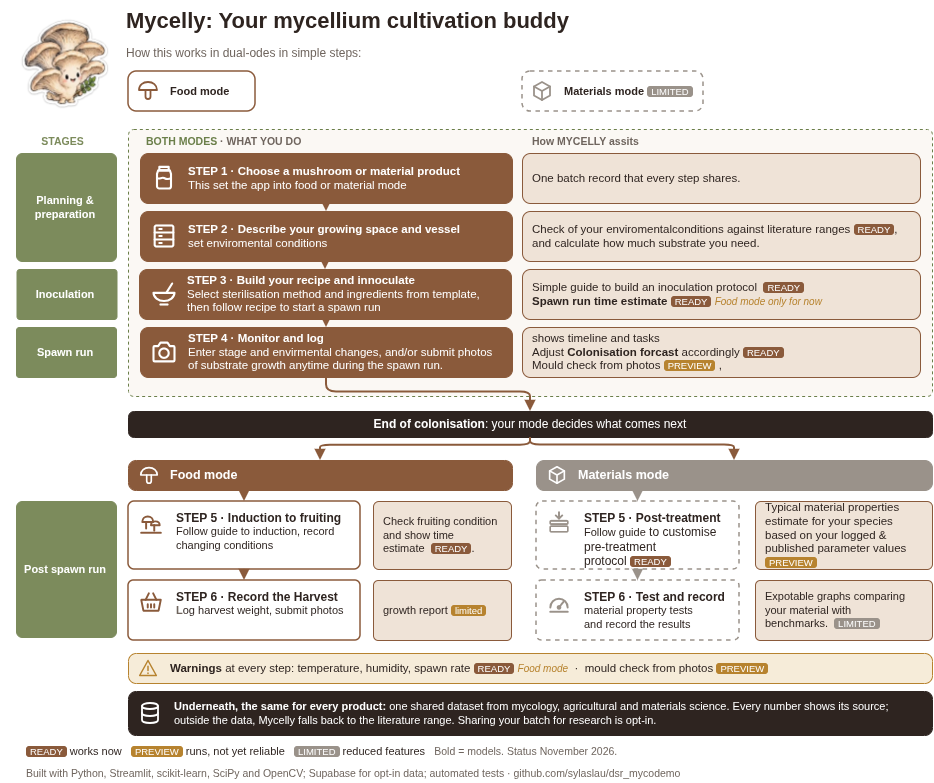
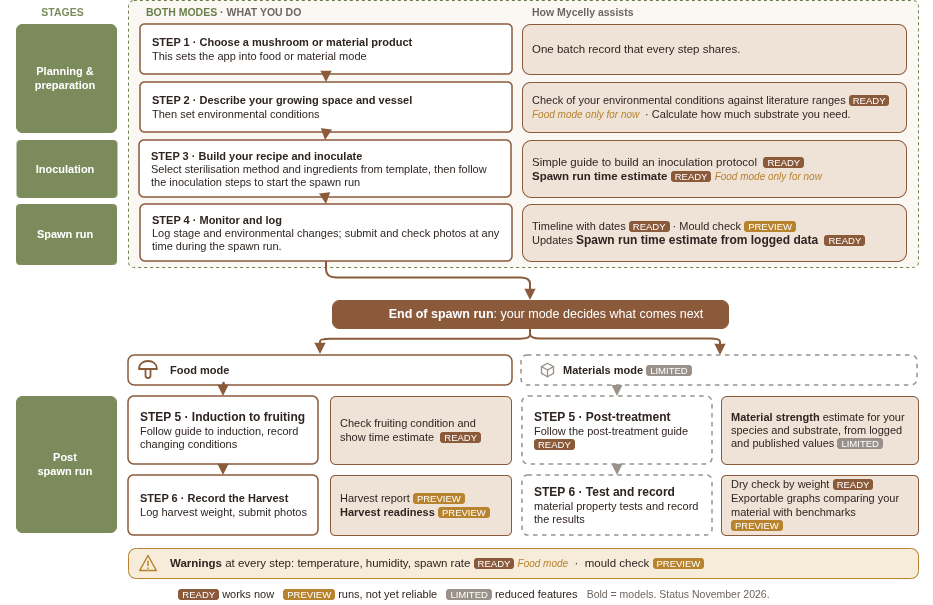
update app pages and third party notice

diff --git a/dsr_mycodemo/app/pages/4_Monitor.py b/dsr_mycodemo/app/pages/4_Monitor.py
@@ -47,8 +47,9 @@ def stage_from_backup(text):
     if not text.lstrip().startswith("{"):
         return {}
     doc, out = json.loads(text), {}
-    if doc.get("batch_stage") in flow.STAGES_FOOD + flow.STAGES_MATERIAL:
-        out["batch_stage"] = doc["batch_stage"]
+    word = flow.OLD_STAGE_WORDS.get(doc.get("batch_stage"), doc.get("batch_stage"))
+    if word in flow.STAGES_FOOD + flow.STAGES_MATERIAL:
+        out["batch_stage"] = word
     if doc.get("next_start"):
         out["next_start"] = date.fromisoformat(str(doc["next_start"])[:10])
     return out
@@ -97,9 +98,9 @@ def apply_restore(p, stage=None):
 CO2_COLONISING = (0.0, 20000.0)
 MATERIALS = flow.is_materials()
 STAGES = flow.STAGES_MATERIAL if MATERIALS else flow.STAGES_FOOD
-FIRST_STAGE = "Colonisation" if MATERIALS else "Colonising"
-# mode -> (stage after colonisation, confirm button)
-NEXT_STAGE = {False: ("Fruiting", "Confirm induction started"),
+FIRST_STAGE = "Spawn run"
+# mode -> (stage after the spawn run, confirm button)
+NEXT_STAGE = {False: ("Fruiting", "Induction done"),
               True: ("Post-treatment", "Confirm post-treatment started")}[MATERIALS]
 
 SHOWN = stage_ui.SHOWN       # shown name; the saved value stays the same (old batches load)
@@ -119,7 +120,8 @@ def residences():
 
 
 def batch_stage():
-    """The stage the grower confirmed (session_state['batch_stage']); colonisation until a confirm button is pressed."""
+    """The stage the grower confirmed (session_state['batch_stage']); Spawn run until a confirm button is pressed."""
+    ss["batch_stage"] = flow.OLD_STAGE_WORDS.get(ss.get("batch_stage"), ss.get("batch_stage"))
     if ss.get("batch_stage") not in STAGES:
         ss["batch_stage"] = FIRST_STAGE
     return ss["batch_stage"]
@@ -129,20 +131,6 @@ def batch_residence():
     """Where the batch is: the next residence once the next stage was confirmed (if one was chosen), else the
     colonisation residence."""
     return next_residence() if ss.get("next_start") and next_residence() else ss.get("env_where")
-
-
-def stage_hint(batch, today=None):
-    """What the dates suggest, as a hint only (the stage never follows the dates)."""
-    today = today or date.today()
-    if MATERIALS:
-        typed, _ = stage_ui.colonised_date(PLAN["batch_label"])
-        return (f"Your record says: fully colonised on {typed:%d %b}." if typed else
-                "No colonisation dates for materials yet: confirm when the blocks are fully colonised.")
-    ev = {name: (a, b) for name, a, b in pipeline.run(batch).dates.value}
-    if pipeline.MARKER_LABEL not in ev:
-        return "No dates for this mushroom: confirm by eye."
-    marker = ev[pipeline.MARKER_LABEL][0]
-    return f"Dates say: ready for induction {'from' if today < marker else 'since'} {marker:%d %b}."
 
 
 def wanted_ranges(batch):
@@ -246,29 +234,27 @@ with st.sidebar:
             st.success(f"Restored from {restore_file.name}.")
 
 # --- main area: one box per residence ----------------------------------------------------
-def stage_controls(batch, stage):
-    """Confirm buttons: colonisation -> next stage (with its date), Food fruiting -> harvested, contaminated any time."""
-    if not ss.get("next_start") and stage != "Contaminated":
+def stage_controls(stage):
+    """One row: the confirm button on the left (Spawn run -> next stage, with its date), Contaminated on the right."""
+    if stage == "Contaminated":
+        return
+    left, right = st.columns([3, 1], vertical_alignment="bottom")
+    if not ss.get("next_start"):
         nxt_stage, label = NEXT_STAGE
-        if next_residence():
-            d_col, b_col = st.columns([1, 2], vertical_alignment="bottom")
-            on = d_col.date_input("Started on", date.today(), key="confirm_date")
-            if b_col.button(label, key="confirm_next", type="primary"):
-                ss["batch_stage"], ss["next_start"] = nxt_stage, on
-                st.rerun()
-        else:
-            if st.button(label, key="confirm_next", type="primary"):
+        with left:
+            if next_residence():
+                d_col, b_col = st.columns([1, 2], vertical_alignment="bottom")
+                on = d_col.date_input("Started on", date.today(), key="confirm_date")
+                if b_col.button(label, key="confirm_next", type="primary"):
+                    ss["batch_stage"], ss["next_start"] = nxt_stage, on
+                    st.rerun()
+            elif st.button(label, key="confirm_next", type="primary"):     # no next residence yet: choose it there
                 ss["show_next_steps"] = True
                 st.switch_page("pages/2_Recipe_and_actions.py")
-            st.caption(f"Choose where the batch goes next in the {stage_ui.next_titles(MATERIALS).lower()} steps on "
-                       "Recipe and actions first.")
-        st.caption(stage_hint(batch))
-    if stage == "Fruiting" and st.button("Mark harvested", key="mark_harvested"):
-        ss["batch_stage"] = "Harvested"
-        st.rerun()
-    if stage != "Contaminated" and st.button("Contaminated", key="mark_contaminated"):
-        ss["batch_stage"] = "Contaminated"
-        st.rerun()
+    with right.container(horizontal_alignment="right"):
+        if st.button("Contaminated", key="mark_contaminated"):
+            ss["batch_stage"] = "Contaminated"
+            st.rerun()
 
 
 def coverage_photo(name, sample):
@@ -298,12 +284,12 @@ def coverage_photo(name, sample):
 
 
 def batch_bubble(batch, name):
-    """The plan batch in its residence: the stage as a row of labels, the confirm buttons, one sample's record."""
+    """The plan batch in its residence: the current stage bubble left of the batch name, the buttons, one sample's
+    record."""
     stage = batch_stage()
     with st.container(border=True):
-        st.markdown(f"**{PLAN['batch_label']}**")
-        st.markdown(stage_ui.stage_labels(STAGES, stage), unsafe_allow_html=True)
-        stage_controls(batch, stage)
+        st.markdown(stage_ui.stage_badge(stage, PLAN["batch_label"]), unsafe_allow_html=True)
+        stage_controls(stage)
         samples = stage_ui.plan_samples(PLAN)
         sample = st.selectbox("Sample (one bag, jar or mould)", samples, key=f"sample_{name}")
         if ss.get("next_start"):                 # fruiting / harvested, or post-treatment

diff --git a/tests/test_monitor_stages.py b/tests/test_monitor_stages.py
@@ -37,18 +37,27 @@ def _box_of_batch(at):
 
 
 def _current(at):
+    """Stage bubbles shown (11-19: only the current one, left of the batch name)."""
     import re
     html_ = " ".join(m.value for m in at.markdown)
-    return re.findall(r"#fff;[^>]*><b>([^<]+)</b>", html_)
+    return re.findall(r"#fff;[^>]*><b>([^<]+)</b></span><b>[^<]+</b>", html_)
 
 
 # --- stage only through the confirm button --------------------------------------------------------
-def test_stage_starts_colonising_and_does_not_follow_the_dates():
+def test_stage_starts_spawn_run_and_does_not_follow_the_dates():
     at = _monitor(plan={**FOOD_PLAN, "inoc_date": START - timedelta(days=200)},
                   residences={"next": "Tent or Cabinet"})       # dates say long past harvest
-    assert at.session_state["batch_stage"] == "Colonising" and _current(at) == ["Colonising"]
+    assert at.session_state["batch_stage"] == "Spawn run" and _current(at) == ["Spawn run"]
     assert "next_start" not in at.session_state
-    assert any("Dates say: ready for induction since" in c.value for c in at.caption)
+    html_ = " ".join(m.value for m in at.markdown)
+    assert "Fruiting" not in html_ and "Harvested" not in html_          # only the current stage is a bubble
+    assert not any("Dates say" in c.value for c in at.caption)           # no grey hint lines
+
+
+def test_old_stage_words_load_as_the_new_ones():
+    assert _current(_monitor(batch_stage="Colonising")) == ["Spawn run"]
+    assert _current(_monitor(residences={"next": "Tent or Cabinet"}, batch_stage="Harvested",
+                             next_start=date(2026, 10, 30))) == ["Fruiting"]
 
 
 def test_confirm_button_sets_stage_date_and_moves_the_bubble():
@@ -56,40 +65,39 @@ def test_confirm_button_sets_stage_date_and_moves_the_bubble():
     assert _subheaders(at)[:2] == ["Monotub or Plastic Container", "Tent or Cabinet"]
     assert _box_of_batch(at) == ["Plastic container"]
     btn = at.button(key="confirm_next")
-    assert btn.label == "Confirm induction started"
+    assert btn.label == "Induction done"
     at.date_input(key="confirm_date").set_value(date(2026, 10, 30))
     btn.click().run()
     s = at.session_state
     assert s["batch_stage"] == "Fruiting" and s["next_start"] == date(2026, 10, 30)
     assert _box_of_batch(at) == ["Tent or Cabinet"] and _current(at) == ["Fruiting"]
-    assert not any(b.key == "confirm_next" for b in at.button)
-    at.button(key="mark_harvested").click().run()
-    assert at.session_state["batch_stage"] == "Harvested"
+    assert not any(b.key in ("confirm_next", "mark_harvested") for b in at.button)
+    assert any(b.key == "mark_contaminated" for b in at.button)
 
 
 def test_without_a_next_residence_the_button_opens_the_steps():
     at = _monitor()
-    assert at.button(key="confirm_next").label == "Confirm induction started"
+    assert at.button(key="confirm_next").label == "Induction done"
     assert not any(d.key == "confirm_date" for d in at.date_input)
-    assert any("Recipe and actions" in c.value for c in at.caption)
+    assert not any("Recipe and actions" in c.value for c in at.caption)
     at.button(key="confirm_next").click().run()
-    assert at.session_state["batch_stage"] == "Colonising" and "next_start" not in at.session_state
+    assert at.session_state["batch_stage"] == "Spawn run" and "next_start" not in at.session_state
     assert at.session_state["show_next_steps"] is True
 
 
 def test_contaminated_at_any_stage():
     at = _monitor()
     at.button(key="mark_contaminated").click().run()
-    assert at.session_state["batch_stage"] == "Contaminated"
+    assert at.session_state["batch_stage"] == "Contaminated" and _current(at) == ["Contaminated"]
     assert not any(b.key in ("mark_contaminated", "confirm_next") for b in at.button)
 
 
 def test_materials_confirm_post_treatment():
     at = _monitor("Materials", MAT_PLAN, residences={"next": "Oven"})
-    html_ = " ".join(m.value for m in at.markdown)
-    assert all(w in html_ for w in ("Colonisation", "Post-treatment", "Contaminated"))
+    assert _current(at) == ["Spawn run"]
     at.button(key="confirm_next").click().run()
     assert at.session_state["batch_stage"] == "Post-treatment" and _box_of_batch(at) == ["Oven"]
+    assert _current(at) == ["Post-treatment"]
     assert not any(b.key == "mark_harvested" for b in at.button)
 
 

diff --git a/dsr_mycodemo/app/stage_ui.py b/dsr_mycodemo/app/stage_ui.py
@@ -479,16 +479,12 @@ def dot(colour):
     return f'<span style="color:{LIGHTS[colour]}">●</span>'
 
 
-def stage_labels(stages, current):
-    """The batch stage as a row of labels; the current one filled in chestnut."""
-    out = []
-    for name in stages:
-        on = name == current
-        style = (f"background:{EVENT_COLOR};color:#fff;border:2px solid {EVENT_COLOR}" if on else
-                 f"border:2px solid {LIGHTS['grey']};color:{LIGHTS['grey']}")
-        out.append(f'<span style="{style};border-radius:999px;padding:0.15rem 0.8rem;margin-right:0.3rem;'
-                   f'display:inline-block">{"<b>" if on else ""}{html.escape(name)}{"</b>" if on else ""}</span>')
-    return "".join(out)
+def stage_badge(current, label):
+    """The current stage as one filled bubble (chestnut; red when contaminated), then the batch name."""
+    colour = LIGHTS["red"] if current == "Contaminated" else EVENT_COLOR
+    return (f'<span style="background:{colour};color:#fff;border:2px solid {colour};border-radius:999px;'
+            f'padding:0.15rem 0.8rem;margin-right:0.5rem;display:inline-block"><b>{html.escape(current)}</b></span>'
+            f'<b>{html.escape(label)}</b>')
 
 
 def bubble(colour, icon, label, text):

diff --git a/tests/test_pipeline.py b/tests/test_pipeline.py
@@ -368,6 +368,8 @@ def test_environment_temperature_moves_the_colonisation_estimate():
 
 def test_next_stage_after_colonisation_food_and_materials():
     assert pipeline.next_stage("Food", "Colonising") == "Fruiting"
+    assert pipeline.next_stage("Food", "Spawn run") == "Fruiting"
+    assert pipeline.next_stage("Materials", "Spawn run") == "Post-treatment"
     assert pipeline.next_stage("Materials", "Colonisation") == "Post-treatment"
     assert pipeline.next_stage("Food", "Fruiting") is None
     assert pipeline.next_stage("Materials", "Post-treatment") is None
@@ -405,7 +407,7 @@ def test_monitor_page_environment_boxes_stages_and_sample_photo():
     assert [s.value for s in at.subheader] == ["Tent or Cabinet"]
     assert at.selectbox(key="sample_Tent or Cabinet").options == ["B1-01", "B1-02"]
     html_ = " ".join(m.value for m in at.markdown)
-    assert all(word in html_ for word in ("Inoculated", "Colonising", "Fruiting", "Harvested", "Contaminated"))
+    assert "Spawn run" in html_ and "Harvested" not in html_
     assert any(b.label == "Save" for b in at.button)
 
 

diff --git a/dsr_mycodemo/app/flow.py b/dsr_mycodemo/app/flow.py
@@ -19,8 +19,12 @@ ENDPOINT_ASSUMPTION_NOTE = (
     "coverage**, and the **Induction planning marker** is that day + 2 days. The day the substrate is white all the "
     "way through, bottom included, cannot be predicted; check by eye before starting induction.")
 # the grower's words; each maps to a stage_id in stage.csv via dsr_mycodemo.stages ("Contaminated" is a status)
-STAGES_FOOD = ["Inoculated", "Colonising", "Fruiting", "Harvested", "Contaminated"]
-STAGES_MATERIAL = ["Colonisation", "Post-treatment", "Contaminated"]
+# Monitor (11-19): three stages in all, Spawn run -> Fruiting (Food) or Post-treatment (Materials)
+STAGES_FOOD = ["Spawn run", "Fruiting", "Contaminated"]
+STAGES_MATERIAL = ["Spawn run", "Post-treatment", "Contaminated"]
+# words saved by older versions (backups) -> the current stage word
+OLD_STAGE_WORDS = {"Inoculated": "Spawn run", "Colonising": "Spawn run", "Colonisation": "Spawn run",
+                   "Harvested": "Fruiting"}
 
 
 def init():

diff --git a/dsr_mycodemo/pipeline.py b/dsr_mycodemo/pipeline.py
@@ -51,7 +51,7 @@ ENVIRONMENT_SIZES = ["Small plastic box", "Tub", "Tent", "Shelf", "Room"]
 MEASURED_BY = ["Thermometer", "Sensor device", "Guess"]
 # stage that ends colonisation -> where "Next stage" goes, per goal (Food: Fruiting, Materials: Post-treatment).
 # Words stay as the grower sees them; the logic runs on stage_ids from stage.csv (dsr_mycodemo.stages).
-COLONISING_STAGES = {"Food": ("Inoculated", "Colonising"), "Materials": ("Colonisation",)}
+COLONISING_STAGES = {"Food": ("Spawn run", "Inoculated", "Colonising"), "Materials": ("Spawn run", "Colonisation")}
 AFTER_COLONISATION = {"Food": "Fruiting", "Materials": "Post-treatment"}
 COLONISING_STAGE_ID = "ST4"
 NEXT_STAGE_ID = {"Food": "ST5", "Materials": "ST6"}

diff --git a/dsr_mycodemo/app/Welcome.py b/dsr_mycodemo/app/Welcome.py
@@ -32,5 +32,5 @@ st.image(str(IMAGES / "app_overview.png"), width="stretch")
 
 st.subheader("Data collection")
 st.markdown("We do not collect any personal data.")
-st.markdown("We collect data directly related to mycelium cultivation to improve how Mycelly assists. "
+st.markdown("We collect data directly related to mycelium cultivation to improve how Mycelly assists. \n"
             "Examples: environmental conditions, growing parameters and photos, and product results.")

diff --git a/dsr_mycodemo/stages.py b/dsr_mycodemo/stages.py
@@ -14,6 +14,7 @@ STAGE_PATH = INTERIM_DATA_DIR / "extracted" / "stage.csv"
 
 # user-facing word -> stage_id
 WORD_TO_STAGE = {
+    "Spawn run": "ST4",           # Monitor's word for colonisation (11-19)
     "Spawning": "ST4",            # Monitor: the inoculation day starts the block's colonisation
     "Inoculated": "ST4",
     "Colonising": "ST4",

diff --git a/THIRD_PARTY_NOTICES.md b/THIRD_PARTY_NOTICES.md
@@ -1,0 +1,33 @@
+**Third-party notices**  
+Mycelly (repository `dsr_mycodemo`) contains no third-party code. Python dependencies are installed from PyPI under their own licences (see `pyproject.toml`) and are not bundled here. This file records the sources of the data, reference values and ideas used in the project.  
+**Published datasets (**`data/interim/extracted/`**)**  
+Values were extracted from the publications below and harmonised into one shared schema; full citations are given in `dataset.csv`. Licences are listed as stated by each source. Material-side values also underlie `data/processed/materials/property_table.csv` (d004, d005, d006, d007, d016, d017, d023) and `post_treatment.csv` (d003, d004, d005, d006, d007, d016, d017, d023).  
+  
+|  |  |  |  |  
+| - | - | - | - |  
+| **ID** |  **Source** |  **Side** |  **Licence** |  
+| d001 |  Dzulkefli 2018, doi 10.1016/j.dib.2018.09.008 |  food |  not stated |  
+| d002 |  Musci 2025, doi 10.2478/gsr-2024-0014 |  food |  not stated |  
+| d003 |  Gomaa et al. 2024, [https://github.com/m-AI-celium/Myceilum_Growth_Dataset](https://github.com/m-AI-celium/Myceilum_Growth_Dataset "https://github.com/m-AI-celium/Myceilum_Growth_Dataset") |  materials |  CC BY-NC-SA 4.0 (repository) |  
+| d004 |  Bhaskar 2026, [https://data.mendeley.com/datasets/zd9ncf85k3/1](https://data.mendeley.com/datasets/zd9ncf85k3/1 "https://data.mendeley.com/datasets/zd9ncf85k3/1") |  materials |  not stated |  
+| d005 |  Elsacker 2019, [https://data.mendeley.com/datasets/r8m4y7rv8j/1](https://data.mendeley.com/datasets/r8m4y7rv8j/1 "https://data.mendeley.com/datasets/r8m4y7rv8j/1") |  materials |  not stated |  
+| d006 |  Hysek 2025, [https://zenodo.org/records/17104804](https://zenodo.org/records/17104804 "https://zenodo.org/records/17104804") |  materials |  not stated |  
+| d007 |  Irbe 2026, doi 10.1016/j.nxmate.2026.102309 |  materials |  CC BY |  
+| d009 |  Elsacker 2022, doi 10.3390/biomimetics7020057 |  materials |  not stated |  
+| d012 |  Pacheco-Sanchez 2026, doi 10.3390/molecules31193533 |  food |  CC BY 4.0 |  
+| d016 |  Vasatko 2022, doi 10.3390/biomimetics7020051 |  materials |  CC BY |  
+| d017 |  Jimenez-Obando 2025, doi 10.3390/jof11060460 |  materials |  CC BY |  
+| d020 |  Dao 2023, doi 10.3389/fmicb.2023.1130196 |  materials |  not stated |  
+| d021 |  Zervakis 2001, doi 10.1007/BF02818539 |  food |  not stated |  
+| d023 |  Houette 2022, doi 10.3390/biomimetics7030103 |  materials |  CC BY |  
+| d024 |  Patil 2025, doi 10.5281/zenodo.18066556 |  food |  CC BY-SA |  
+| d025 |  Gebru 2024, doi 10.1080/12298093.2024.2399353 |  food |  CC BY-NC 4.0 |  
+| d026 |  Akcay 2023, doi 10.1038/s41598-023-40200-x |  food |  CC BY 4.0 |  
+| d027 |  Salifu 2024, doi 10.1016/j.bgtech.2024.100137 |  food |  CC BY-NC-ND 4.0 |  
+  
+   
+**Consensus cultivation table**  
+`data/processed/food/cultivation_baseline.csv` and `cultivation_guide_text.csv` form our own table of typical cultivation values, compiled with NotebookLM and checked row by row rather than page by page. The `source_reference` column names the books and guides behind each row: Stamets (2000, Ten Speed Press); Chang & Miles (2004, CRC Press); MushWorld (2004); Royse (2001, 2003, Penn State Extension); ICAR-DMR Solan (2020); Agromisa Agrodok-40 (2003); Philippoussis et al. (2001); UN CSAM (2020); a consensus of commercial spawn suppliers.  
+**Own estimates and data**  
+- `data/interim/extracted/cn_ingredients.csv`: carbon and nitrogen contents are our own typical values per ingredient or ingredient category, not measurements from a single source.  
+- `data/interim/coverage_syldd.csv` and the syldd records: our own test batch of *Pleurotus ostreatus* (October 2026).  
